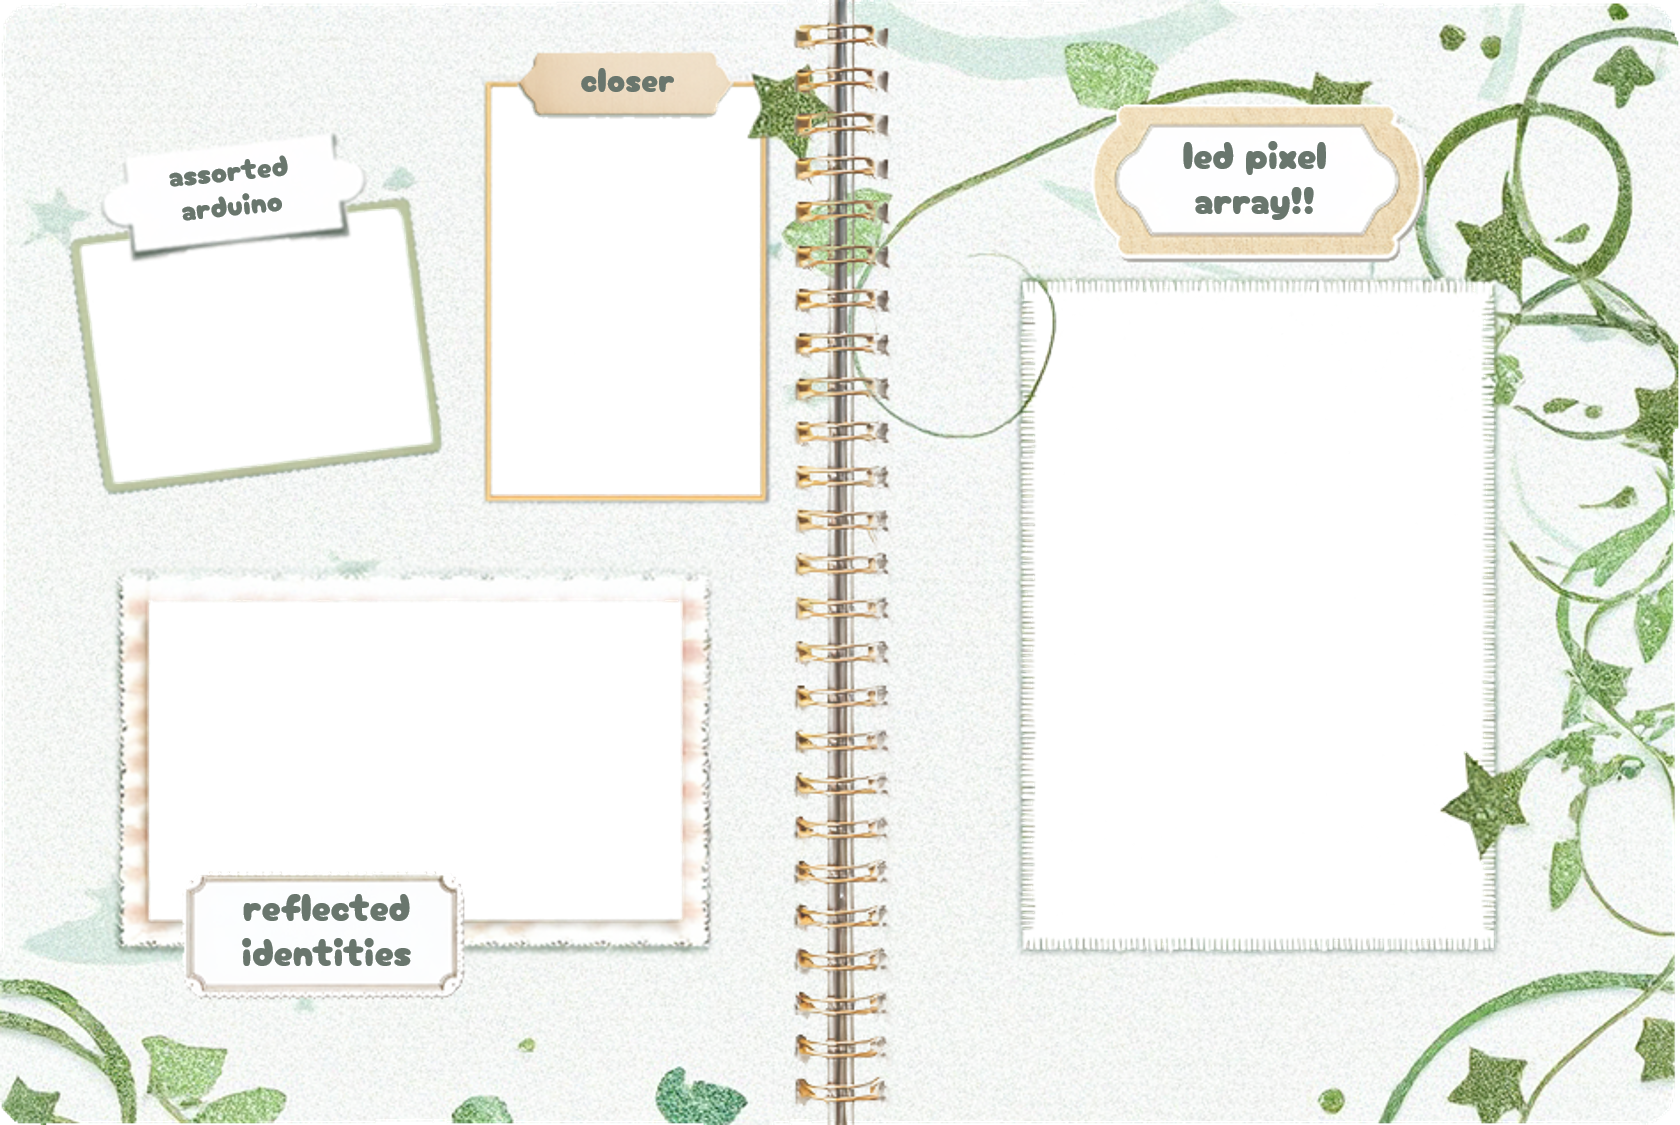
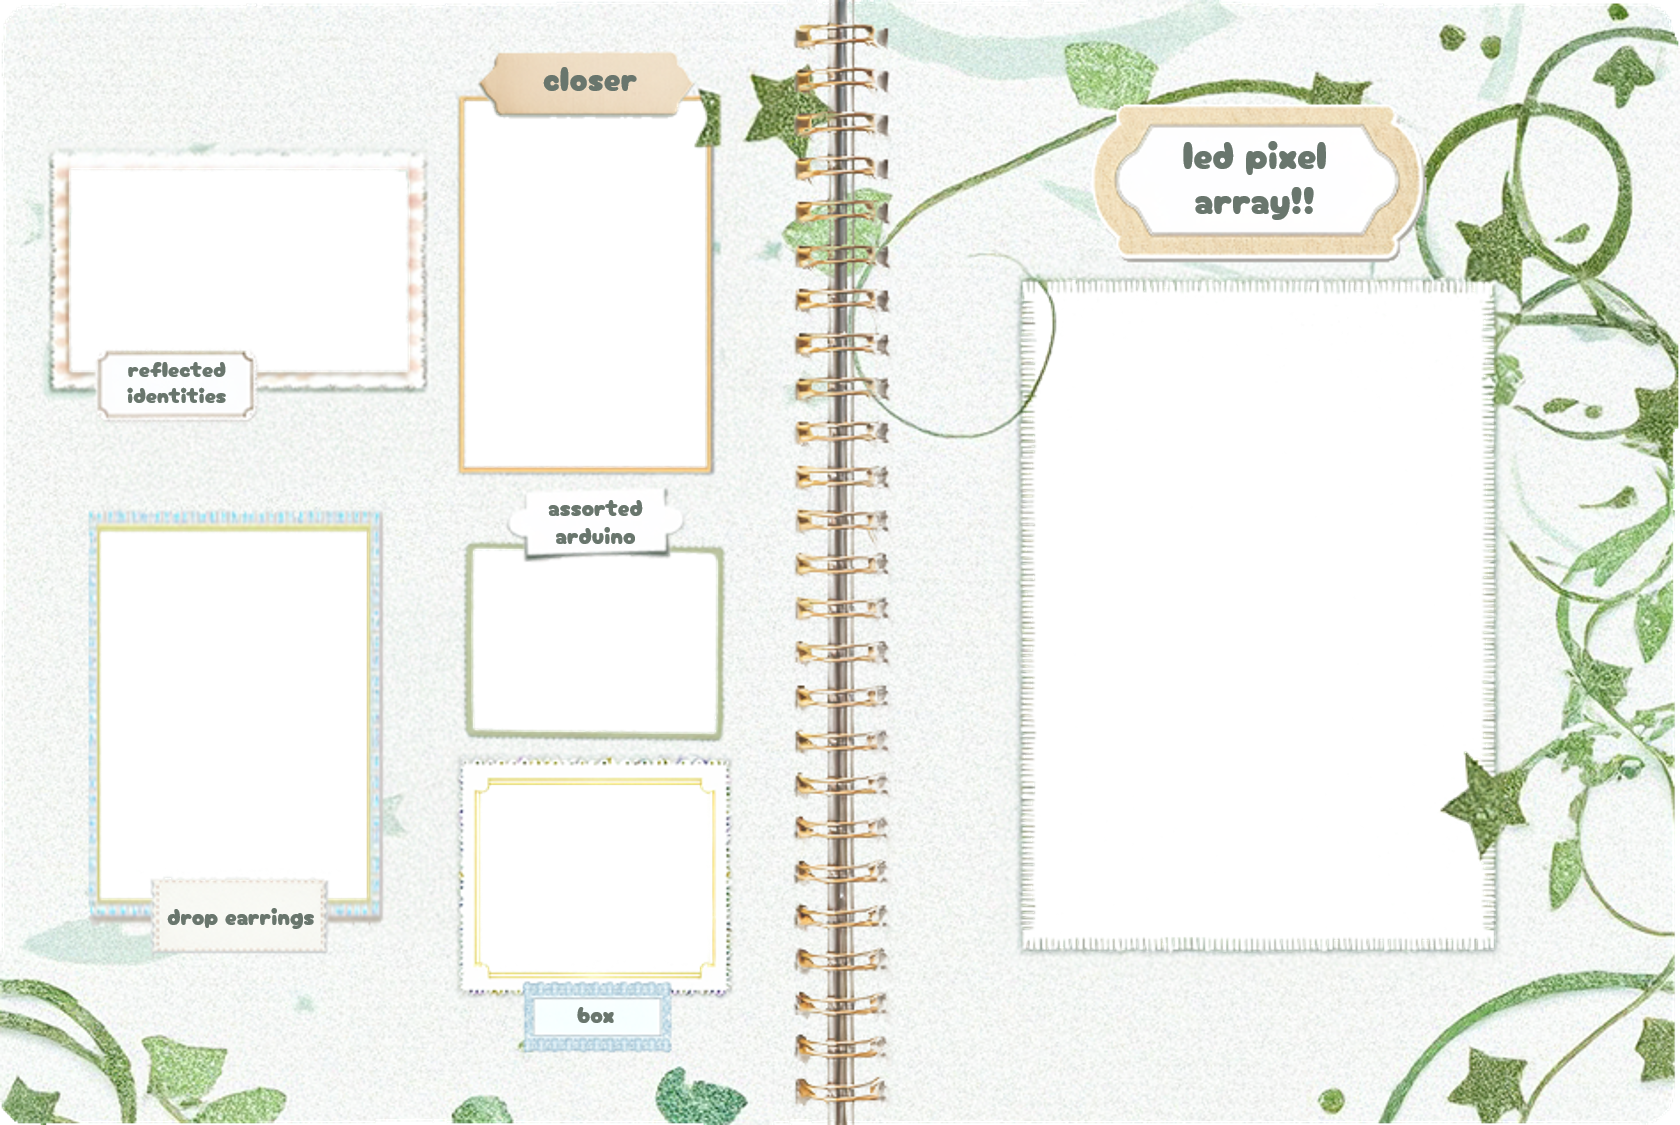
fixed installations + digital fabrication page

Changed region(s): [[0.0, 0.0311, 0.4643, 0.9333]]

diff --git a/interactive_exhibits.html b/interactive_exhibits.html
@@ -60,20 +60,28 @@
             </a>
 
             <!-- Filler Images -->
-            <a href="ps70_final.html" target="_blank" class="filler-container" data-top="20" data-left="5.5" data-width="19.5" data-height="21.5" style="transform: rotate(-8deg); transform-origin: center;">
+            <a href="ps70_final.html" target="_blank" class="filler-container" data-top="49" data-left="28" data-width="15" data-height="16">
                 <img src="assets/images/capacitor_in_use.png" class="filler-image" alt="Description of the image">
                 <div class="hover-text">3d led pixel array!! uses touchdesigner, python, arduino ide, and the wled api...</div>
             </a>
-            <a href="ps70_final.html" target="_blank" class="filler-container" data-top="7.5" data-left="29" data-width="17" data-height="37">
+            <a href="ps70_final.html" target="_blank" class="filler-container" data-top="7.5" data-left="27.5" data-width="14.5" data-height="34">
                 <img src="assets/images/board_light.jpg" class="filler-image" alt="Description of the image">
                 <div class="hover-text">3d led pixel array!! uses touchdesigner, python, arduino ide, and the wled api to create an audiovisual experience... linked to internal computer audio so able to play any song!!</div>
             </a>
-            <a href="ps70_final.html" target="_blank" class="filler-container" data-top="53" data-left="8.5" data-width="32" data-height="29">
+            <a href="ps70_final.html" target="_blank" class="filler-container" data-top="15" data-left="4" data-width="20.5" data-height="18">
                 <img src="assets/images/reflected_identities.jpg" class="filler-image"  style="transform: scaleX(-1); transform-origin: center;" alt="Description of the image">
                 <div class="hover-text">3d led pixel array!! uses touchdesigner, python, arduino ide, and the wled api...</div>
             </a>
             <a href="ps70_final.html" target="_blank" class="filler-container" data-top="25" data-left="61" data-width="28" data-height="59.5">
                 <img src="assets/images/led_array.png" class="filler-image" alt="Description of the image">
+                <div class="hover-text">3d led pixel array!! uses touchdesigner, python, arduino ide, and the wled api to create an audiovisual experience... linked to internal computer audio so able to play any song!!</div>
+            </a>
+            <a href="ps70_final.html" target="_blank" class="filler-container" data-top="69.5" data-left="28" data-width="15" data-height="17">
+                <img src="assets/images/box.jpg" class="filler-image" alt="Description of the image">
+                <div class="hover-text">3d led pixel array!! uses touchdesigner, python, arduino ide, and the wled api to create an audiovisual experience... linked to internal computer audio so able to play any song!!</div>
+            </a>
+            <a href="ps70_final.html" target="_blank" class="filler-container" data-top="47" data-left="5.5" data-width="17" data-height="34">
+                <img src="assets/images/earrings.JPEG" class="filler-image" alt="Description of the image">
                 <div class="hover-text">3d led pixel array!! uses touchdesigner, python, arduino ide, and the wled api to create an audiovisual experience... linked to internal computer audio so able to play any song!!</div>
             </a>
         </div>
